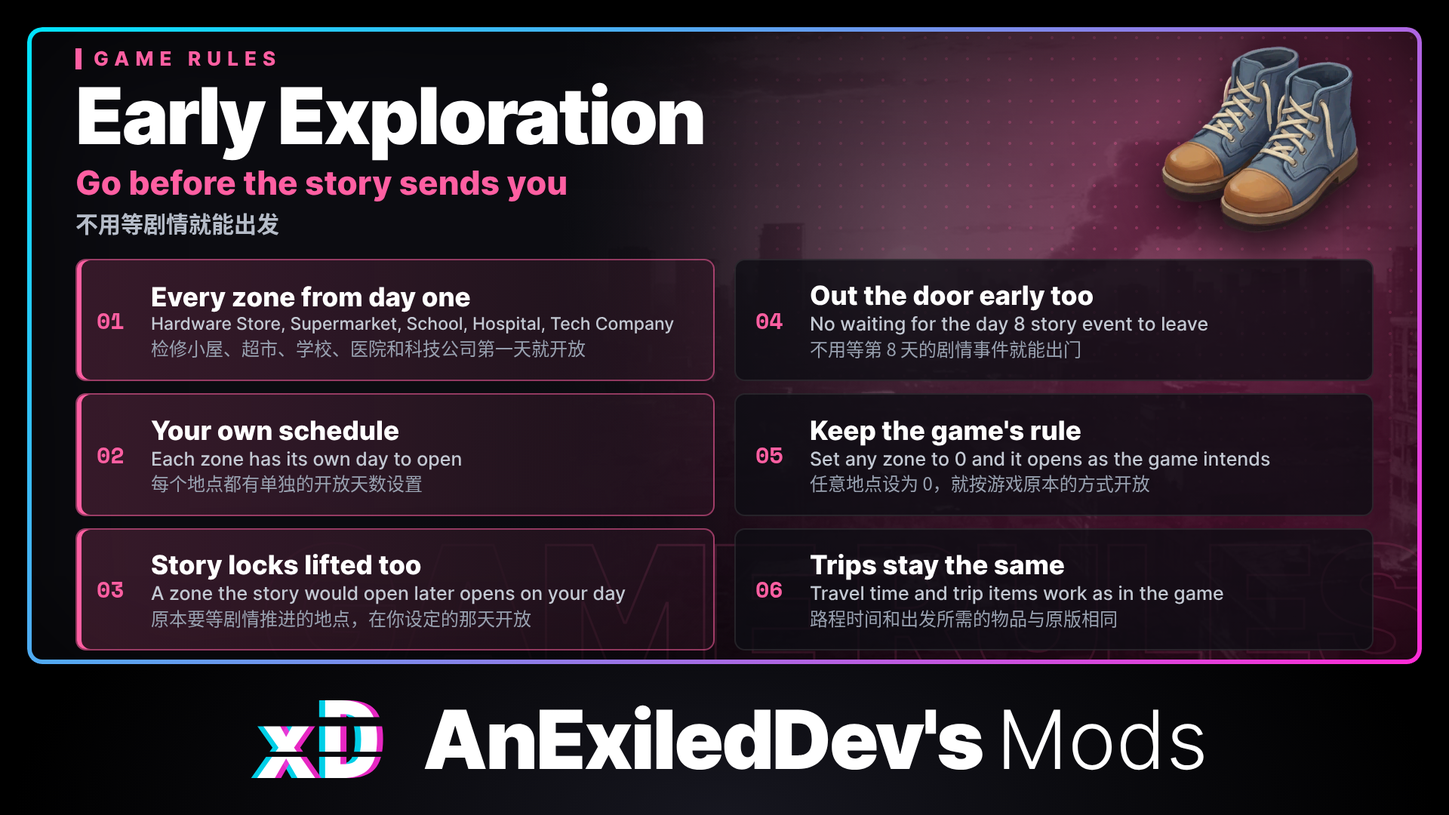
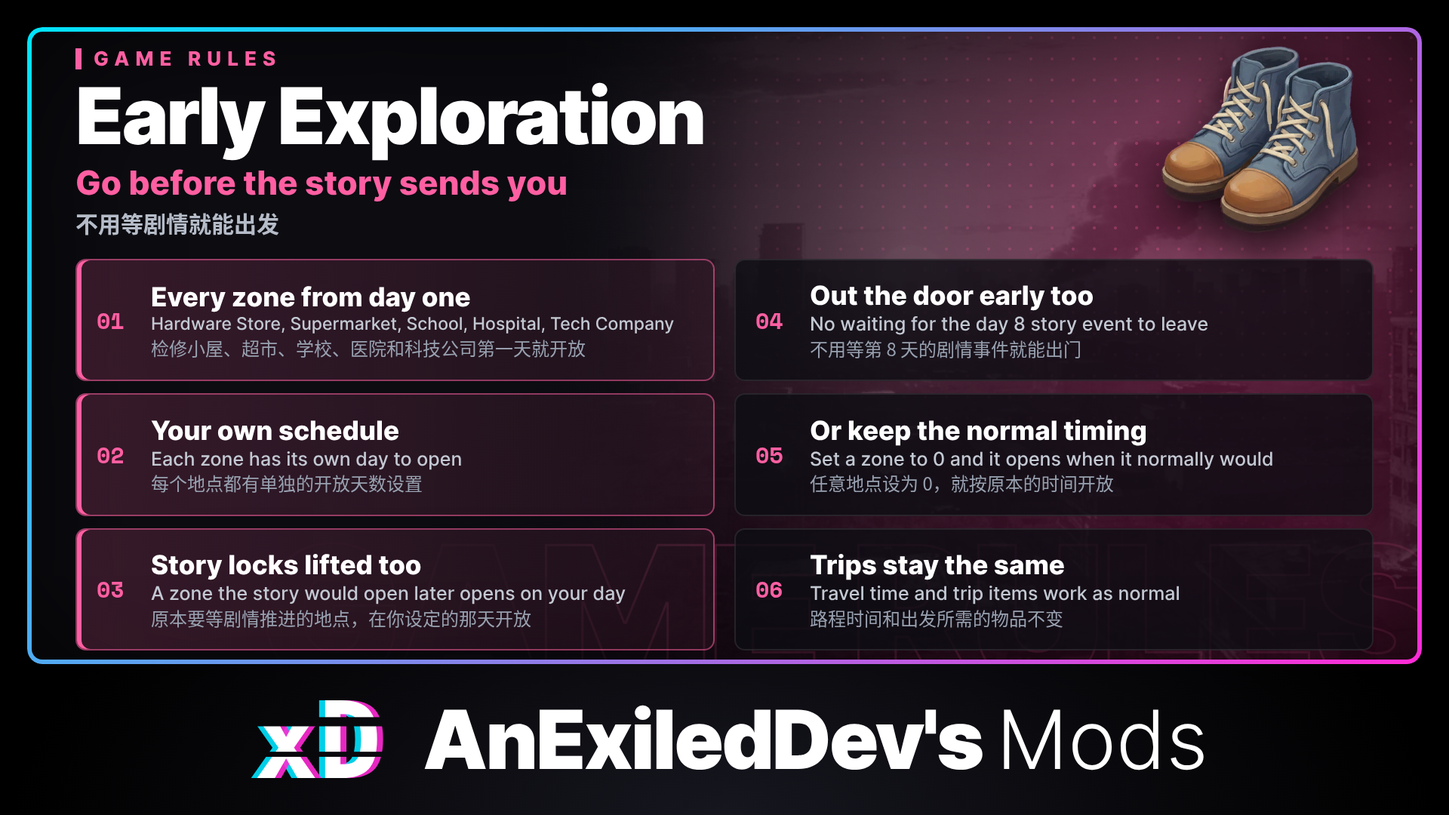
Early Exploration 0.1.7: clearer wording
Rewrote the setting descriptions, the Mods screen description and the log messages in plain words.
Plainer feature headings and sentences in the readme, the Nexus page (English and Chinese), the settings page and the changelog.
Removed a known-issues line about a place the player can't reach.
Updated the thumbnail and features images, and added next release's header, thumbnail and features images.

Changed region(s): [[0.5625, 0.5194, 0.875, 0.6111], [0.7188, 0.7333, 0.7812, 0.7944], [0.7812, 0.7028, 0.8438, 0.7333]]

diff --git a/src/EarlyExploration/Adapters/ZoneOpener.cs b/src/EarlyExploration/Adapters/ZoneOpener.cs
@@ -53,7 +53,7 @@ public sealed class ZoneOpener : MonoBehaviour
         }
         catch (Exception ex)
         {
-            ReportOnce("failure " + ex.GetType().FullName + ex.Message, "the zone check failed, zones keep the game's rules for now (each distinct failure logged once): " + ex, isError: true);
+            ReportOnce("failure " + ex.GetType().FullName + ex.Message, "the zone check failed, so zones may not open on your days for now (each different failure is logged once): " + ex, isError: true);
         }
     }
 
@@ -80,7 +80,7 @@ public sealed class ZoneOpener : MonoBehaviour
 
             if (!mapPoints.TryGetValue(zone.MapPointId, out var mapPoint) || mapPoint == null)
             {
-                ReportOnce($"missing {zone.Key}", $"{zone.English} (map point {zone.MapPointId}) is not in the game's tables, so it keeps the game's rules", isError: true);
+                ReportOnce($"missing {zone.Key}", $"{zone.English} (map point {zone.MapPointId}) is not in the game's tables, so this mod can't change when it opens", isError: true);
 
                 continue;
             }
@@ -126,7 +126,7 @@ public sealed class ZoneOpener : MonoBehaviour
             return;
         }
 
-        ReportOnce("manual reward refused", $"the workbench manual's reward ({WorkbenchStart.ManualFoundRewardSetId}) did not add {WorkbenchStart.ManualTag}, so the workbench unlocks the game's way", isError: true);
+        ReportOnce("manual reward refused", $"the workbench manual's reward ({WorkbenchStart.ManualFoundRewardSetId}) did not add {WorkbenchStart.ManualTag}, so the workbench can only be repaired the normal way", isError: true);
     }
 
     /// <summary>
@@ -156,7 +156,7 @@ public sealed class ZoneOpener : MonoBehaviour
 
         if (copies.Count == 0)
         {
-            ReportOnce("missing event", $"none of the Noisemaker events ({string.Join(", ", ExploreStart.EventIds)}) is set up in this run, so exploring unlocks the game's way", isError: true);
+            ReportOnce("missing event", $"none of the Noisemaker events ({string.Join(", ", ExploreStart.EventIds)}) is set up in this run, so you can only leave the shelter the normal way", isError: true);
 
             return;
         }
@@ -183,7 +183,7 @@ public sealed class ZoneOpener : MonoBehaviour
         if (!tried) return;
 
         _nextStartAt = now + RetrySeconds;
-        ReportOnce($"event refused {clockDay}", $"day {clockDay + 1}: the game did not start a Noisemaker event yet; trying again every {RetrySeconds:0} seconds", isError: false);
+        ReportOnce($"event refused {clockDay}", $"day {clockDay + 1}: the game has not started a Noisemaker event yet, so it is tried again every {RetrySeconds:0} seconds", isError: false);
     }
 
     private static bool TryStart(DynamicEventManager events, int id, DynamicEventConfig setup, int clockDay)
@@ -219,7 +219,7 @@ public sealed class ZoneOpener : MonoBehaviour
 
         condition._SurvivalToDay_k__BackingField = target;
         Log?.Write(openDay == ZonePlan.GameRule
-            ? $"{zone.English}: back to the game's day lock"
+            ? $"{zone.English}: back to its normal opening day"
             : $"{zone.English}: opens on day {openDay}");
     }
 

diff --git a/src/EarlyExploration/Plugin.cs b/src/EarlyExploration/Plugin.cs
@@ -15,7 +15,7 @@ namespace EarlyExploration;
 public sealed class Plugin : BasePlugin
 {
     private const string Guid = "com.dev.survivallog.earlyexploration";
-    private const string Version = "0.1.6";
+    private const string Version = "0.1.7";
 
     /// <summary>Lines add up over many sessions, so past 1 MB the file is moved aside and started again.</summary>
     private const long MaxLogBytes = 1024 * 1024;
@@ -35,8 +35,8 @@ public sealed class Plugin : BasePlugin
 
     private ConfigEntry<int> BindOpenDay(Zone zone) =>
         Config.Bind("Zones", zone.Key, ZonePlan.GameRule, new ConfigDescription(
-            $"The day after the disaster the {zone.English} opens on the exploration map: 1 is the first day. 0, the default, leaves it to open when it normally does ({zone.GameRule}). Opening it early also lifts the story lock, so you can go before the story sends you. Anything else a trip needs, such as items to bring, still applies.\n" +
-            $"灾难发生后，「{zone.Chinese}」在探索地图上开放的天数：1 表示第一天。设为 0（默认）则保持原样，和平时一样开放（{zone.GameRuleChinese}）。提前开放时也会解除剧情锁定，不必等剧情引导就能前往。出发所需的其他条件（例如需要携带的物品）照常生效。",
+            $"The day the {zone.English} opens on the exploration map: 1 is the first day after the disaster. Leave it at 0, the default, and it opens when it normally does ({zone.GameRule}). Opening it early also lifts any story lock, so you can go before the story sends you there. A trip there still needs everything it normally does, such as items to bring.\n" +
+            $"「{zone.Chinese}」在探索地图上开放的天数：1 表示灾难后的第一天。保持 0（默认）则和平时一样开放（{zone.GameRuleChinese}）。提前开放时也会解除剧情锁定，不必等剧情引导就能前往。出发所需的其他条件（例如需要携带的物品）和平时一样。",
             new AcceptableValueRange<int>(ZonePlan.GameRule, ZonePlan.LatestDay)));
 
     private static void UseOpenDays(IReadOnlyDictionary<int, ConfigEntry<int>> openDays, ModLog log)

diff --git a/NEXUS.md b/NEXUS.md
@@ -1,22 +1,22 @@
 Name: Early Exploration
-Summary: Choose the day each exploration zone opens after the disaster, as early as day one: Hardware Store, Supermarket, School, Hospital and Tech Company. Every zone opens when it normally does until you set its day. Story locks are lifted on your day, so you can go before the story sends you. Travel time and trip items work as in the game. Needs Exiled's Toolkit.
+Summary: Choose the day each exploration zone opens after the disaster, as early as day one: Hardware Store, Supermarket, School, Hospital and Tech Company. Every zone opens when it normally does until you set its day. Story locks are lifted on your day, so you can go before the story sends you. Travel time and trip items don't change. Needs Exiled's Toolkit.
 
 Description (BBCode):
 [center][img]https://sldb.core-directive.com/media/save/2-changes-stay.png[/img]
 [img]https://sldb.core-directive.com/media/notice/off.png[/img][/center]
 
-Tired of waiting for the story to let you out? Early Exploration lets you pick the day each place you can explore after the disaster opens, down to the very first day.
+Waiting for the story to let you out gets old. Early Exploration lets you pick the day each exploration zone opens after the disaster, as early as the first day.
 
-Out of the box it changes nothing: every zone opens when it normally does until you set its day to 1 or later, on the Mod Manager's Mods screen or in the config.
+A fresh install changes nothing. Every zone opens when it normally does until you set its day to 1 or later, on the Mod Manager's Mods screen or in the config file.
 
 [size=5]Main features[/size]
 [list]
-[*][b]Every zone from day one[/b]: set them to 1 and the Hardware Store, Deserted Supermarket, Abandoned School, Abandoned Hospital and Tech Company are open on the exploration map from the first day after the disaster.[/*]
-[*][b]Your own schedule[/b]: each zone has its own setting for the day it opens. Pick a day later than it normally opens and the zone stays shut until then.[/*]
-[*][b]Leave a zone alone[/b]: 0, the default, and it opens when it normally does.[/*]
-[*][b]Story locks lifted too[/b]: a zone the story would open later is opened on your day, and stays open in your save.[/*]
-[*][b]Out the door early too[/b]: the game only lets you leave the shelter after its "Exploration Tool" story event on day 8, where you learn to make a Noisemaker. That event now starts on the first day any zone opens, and so does the "Repair Workbench" event a Noisemaker needs (as if you had found the workbench manual), so you can repair the workbench, make one and head out.[/*]
-[*][b]Trips stay the same[/b]: travel time and the items a trip needs (such as a Noisemaker) work as in the game.[/*]
+[*][b]Every zone from day one[/b]: set them all to 1 and the Hardware Store, Deserted Supermarket, Abandoned School, Abandoned Hospital and Tech Company are open on the exploration map from the first day after the disaster.[/*]
+[*][b]A day for each zone[/b]: each zone has its own setting for the day it opens. Pick a day later than it normally opens and the zone stays closed until then.[/*]
+[*][b]0 changes nothing[/b]: leave a zone at 0, the default, and it opens when it normally does.[/*]
+[*][b]Story locks are lifted[/b]: a zone the story would open later opens on your day instead, and it stays open in your save.[/*]
+[*][b]Leave the shelter early[/b]: normally you can't leave the shelter until the "Exploration Tool" story event on day 8, where you learn to make a Noisemaker. That event now starts on the first day any zone opens. You need the workbench to make a Noisemaker, so the "Repair Workbench" event starts that day too, as if you had found the workbench manual. Repair the workbench, make a Noisemaker and head out.[/*]
+[*][b]Trips don't change[/b]: travel time and the items a trip needs (such as a Noisemaker) are the same as normal.[/*]
 [/list]
 Before the disaster nothing changes. Endless and challenge runs aren't touched.
 
@@ -26,7 +26,6 @@ Every setting is explained in English and Chinese.
 [list]
 [*]Going to a zone before the story sends you there can mean arriving without what the story would have given you first, such as a key or an access card for a locked door inside. Those doors stay locked until you find what opens them.[/*]
 [*]Setting a zone back to 0 brings back its normal opening day, but a story lock the mod already lifted stays lifted in that save.[/*]
-[*]The Gas Station is not included: the game does not show it in story runs.[/*]
 [/list]
 
 [center][img]https://sldb.core-directive.com/img/mods-banner.jpg[/img]
@@ -57,7 +56,7 @@ To change settings, edit [font=Courier New]BepInEx\config\com.dev.survivallog.ea
 
 [size=5]Feedback[/size]
 Found a bug or have an idea? Come say hi on the [url=https://discord.gg/trTsyxUFqg]Core Directive Discord[/url], or post in this page's Posts tab. For bugs, please include [font=Courier New]BepInEx\LogOutput.log[/font] and [font=Courier New]BepInEx\early-exploration.log[/font].
-To reach me directly, message [b]exiled.dev[/b] on Discord; you can find me in the [url=https://discord.gg/MZGg4gQAUe]official Survival Log Discord[/url]. I'm also on X as [url=https://x.com/AnExiledDev]@AnExiledDev[/url].
+To reach me directly, message [b]exiled.dev[/b] on Discord. You can find me in the [url=https://discord.gg/MZGg4gQAUe]official Survival Log Discord[/url]. I'm also on X as [url=https://x.com/AnExiledDev]@AnExiledDev[/url].
 
 [size=5]Source and license[/size]
 Open source under MIT: [url=https://github.com/AnExiledDev/SurvivalLog-EarlyExploration]github.com/AnExiledDev/SurvivalLog-EarlyExploration[/url]
@@ -65,18 +64,18 @@ Open source under MIT: [url=https://github.com/AnExiledDev/SurvivalLog-EarlyExpl
 [line]
 [size=5]简体中文[/size]
 
-不想再等剧情放你出门？Early Exploration 让你自己设定灾难之后各个探索地点开放的天数，最早可以是第一天。
+等剧情放你出门实在太久了。Early Exploration 让你自己设定灾难之后各个探索地点开放的天数，最早可以是第一天。
 
-默认不做任何改动：在 Mod Manager 的「模组」界面或配置里把某个地点设为 1 或更大的天数之前，每个地点都和平时一样开放。
+刚装上时不做任何改动。在 Mod Manager 的「模组」界面或配置文件里把某个地点设为 1 或更大的天数之前，每个地点都和平时一样开放。
 
 [size=5]主要功能[/size]
 [list]
-[*][b]第一天全部开放[/b]：设为 1 后，社区检修小屋、残破超市、废弃学校、废弃医院和科技公司，灾难后第一天就在探索地图上开放。[/*]
-[*][b]自定开放天数[/b]：每个地点都有单独的开放天数设置。设得比平时开放得更晚，该地点会一直关闭到那一天。[/*]
-[*][b]保持原样[/b]：设为 0（默认），就和平时一样开放。[/*]
-[*][b]同时解除剧情锁定[/b]：原本要等剧情推进才开放的地点，会在你设定的那天开放，并保留在存档中。[/*]
-[*][b]提前出门[/b]：原版要到第 8 天的「探索工具」剧情事件学会做叮当罐子后才能出门。现在任一区域开放的第一天就会触发这个事件，同时触发做叮当罐子所需的「修理工作台」事件（如同找到了工作台使用手册），修好工作台、做好叮当罐子就能出门。[/*]
-[*][b]出行条件不变[/b]：路程时间和出发所需的物品（例如叮当罐子）与原版相同。[/*]
+[*][b]第一天全部开放[/b]：全部设为 1 后，社区检修小屋、残破超市、废弃学校、废弃医院和科技公司，灾难后第一天就在探索地图上开放。[/*]
+[*][b]每个地点单独设置[/b]：每个地点都有单独的开放天数设置。如果设定的天数比平时开放得晚，该地点会一直关闭到那一天。[/*]
+[*][b]设为 0 不做改动[/b]：保持 0（默认），该地点就和平时一样开放。[/*]
+[*][b]解除剧情锁定[/b]：原本要等剧情推进才开放的地点，会在你设定的那天开放，并且在存档中保持开放。[/*]
+[*][b]提前出门[/b]：平时要到第 8 天的「探索工具」剧情事件学会做叮当罐子后才能出门。现在任一地点开放的第一天就会触发这个事件。做叮当罐子要用工作台，所以「修理工作台」事件也会同时触发，就像找到了工作台使用手册一样。修好工作台、做好叮当罐子就能出门。[/*]
+[*][b]出行条件不变[/b]：路程时间和出发所需的物品（例如叮当罐子）都和平时一样。[/*]
 [/list]
 灾难发生前一切照旧。无尽模式和挑战模式不受影响。
 
@@ -86,7 +85,6 @@ Open source under MIT: [url=https://github.com/AnExiledDev/SurvivalLog-EarlyExpl
 [list]
 [*]在剧情引导之前前往某个地点，可能还没拿到剧情原本会先给你的东西，例如里面某扇锁着的门的钥匙或门禁卡。找到能打开它的东西之前，这些门会一直锁着。[/*]
 [*]把某个地点改回 0 会恢复它平时的开放天数，但模组已经解除的剧情锁定在该存档中不会恢复。[/*]
-[*]不包括加油站：游戏的剧情模式中不会显示这个地点。[/*]
 [/list]
 
 [url=https://www.nexusmods.com/survivallog/mods/73]获取 Mod Manager[/url]，在游戏里设置所有模组。[url=https://sldb.core-directive.com/zh/]打开 Survival Log 维基[/url]，物品、配方、地图一查就有。

diff --git a/README.md b/README.md
@@ -1,17 +1,17 @@
 # Early Exploration
 
-Opens the exploration zones after the disaster as early as day one. Out of the box it changes nothing: every zone opens when it normally does until you set its day (`1` for the first day after the disaster).
+Lets you pick the day each exploration zone opens after the disaster, as early as day one. A fresh install changes nothing: every zone opens when it normally does until you set its day (`1` is the first day after the disaster).
 
-In Survival Log the places you can explore after the disaster open slowly: the Hardware Store on day 5, the others only once the story gets there. Early Exploration gives each zone its own setting so you can pick the day it opens, down to the first day after the disaster.
+In Survival Log the places you can explore after the disaster open slowly: the Hardware Store on day 5, the others only once the story gets there. Early Exploration gives each zone its own setting for the day it opens.
 
 ## Features
 
-- **Every zone from day one**: set them to 1 and the Hardware Store, Deserted Supermarket, Abandoned School, Abandoned Hospital and Tech Company are open on the exploration map from the first day after the disaster.
-- **Your own schedule**: each zone has its own setting for the day it opens. Pick a day later than it normally opens and the zone stays shut until then.
-- **Leave a zone alone**: 0, the default, and it opens when it normally does.
-- **Story locks lifted too**: a zone the story would open later is opened on your day, the same way the story would open it, so it stays open in your save.
-- **Out the door early too**: the game only lets you leave the shelter after its "Exploration Tool" story event on day 8, where you learn to make a Noisemaker. That event now starts on the first day any zone opens, and so does the "Repair Workbench" event a Noisemaker needs (as if you had found the workbench manual), so you can repair the workbench, make one and head out.
-- **Trips stay the same**: travel time and the items a trip needs (such as a Noisemaker) work as in the game.
+- **Every zone from day one**: set them all to 1 and the Hardware Store, Deserted Supermarket, Abandoned School, Abandoned Hospital and Tech Company are open on the exploration map from the first day after the disaster.
+- **A day for each zone**: each zone has its own setting for the day it opens. Pick a day later than it normally opens and the zone stays closed until then.
+- **0 changes nothing**: leave a zone at 0, the default, and it opens when it normally does.
+- **Story locks are lifted**: a zone the story would open later opens on your day instead. It is opened the same way the story would open it, so it stays open in your save.
+- **Leave the shelter early**: normally you can't leave the shelter until the "Exploration Tool" story event on day 8, where you learn to make a Noisemaker. That event now starts on the first day any zone opens. You need the workbench to make a Noisemaker, so the "Repair Workbench" event starts that day too, as if you had found the workbench manual. Repair the workbench, make a Noisemaker and head out.
+- **Trips don't change**: travel time and the items a trip needs (such as a Noisemaker) are the same as normal.
 
 Before the disaster nothing changes. Endless and challenge runs aren't touched.
 
@@ -22,11 +22,10 @@ Every config setting is explained in English and Simplified Chinese.
 - Going to a zone before the story sends you there can mean arriving without what the story would have given you first, such as a key or an access card for a locked door inside. Those doors stay locked until you find what opens them.
 - Story events that would have opened a zone still play when the story reaches them.
 - Setting a zone back to 0 brings back its normal opening day, but a story lock this mod already lifted stays lifted in that save.
-- The Gas Station is not included: the game does not show it in story runs.
 
 ## Requirements
 
-- Survival Log 1.1.20719. Built for this version; a game update can break it until the mod is updated.
+- Survival Log 1.1.20719. Built for this version. A game update can break it until the mod is updated.
 - The [BepInEx Pack for Survival Log](https://www.nexusmods.com/survivallog/mods/12), the BepInEx 6 (IL2CPP) build for the game.
 - **Exiled's Toolkit** 0.20.0 or newer, which applies settings changed on the Mod Manager's Mods screen without restarting the game. Early Exploration does not load without it.
 - Optional: [Mod Manager](https://www.nexusmods.com/survivallog/mods/73). With it, you can change every setting in game on its Mods screen and see what each one does, without opening the config file.
@@ -41,7 +40,7 @@ Every config setting is explained in English and Simplified Chinese.
 
 ## Uninstall
 
-Delete `EarlyExploration.dll` from the `BepInEx\plugins` folder. Zones already opened in a save stay open in it; the rest open when they normally do. For a clean slate, also delete `BepInEx\config\com.dev.survivallog.earlyexploration.cfg`, `BepInEx\early-exploration.log` and `BepInEx\early-exploration.log.1` if it is there.
+Delete `EarlyExploration.dll` from the `BepInEx\plugins` folder. Zones already opened in a save stay open in it. The rest open when they normally do. For a clean slate, also delete `BepInEx\config\com.dev.survivallog.earlyexploration.cfg`, `BepInEx\early-exploration.log` and `BepInEx\early-exploration.log.1` if it is there.
 
 ## Configuration
 
@@ -51,13 +50,13 @@ Settings live in `BepInEx\config\com.dev.survivallog.earlyexploration.cfg`, crea
 
 Built against BepInEx `6.0.0-be.788`.
 
-Check `BepInEx\LogOutput.log` for `===== Early Exploration 0.1.6 started`, followed by a line listing each zone's open day. Once a run has loaded, each zone logs the day it opens on, `opened, added ...` when its story lock is lifted, `gave the workbench manual's reward` when the workbench repair is started early, and `started the Noisemaker event` when the way out is unlocked early. The same lines are in `BepInEx\early-exploration.log`, which survives restarts. Past 1 MB it is moved to `early-exploration.log.1` and started again.
+Check `BepInEx\LogOutput.log` for `===== Early Exploration 0.1.7 started`, followed by a line listing each zone's open day. Once a run has loaded, each zone logs the day it opens on, `opened, added ...` when its story lock is lifted, `gave the workbench manual's reward` when the workbench repair is started early, and `started the Noisemaker event` when the way out is unlocked early. The same lines are in `BepInEx\early-exploration.log`, which survives restarts. Once it passes 1 MB, it is renamed to `early-exploration.log.1` and a new one is started.
 
 ## Feedback and bug reports
 
 Found a bug, have an idea, or something feels off? Come say so on the Core Directive Discord: https://discord.gg/trTsyxUFqg . You can also post in the Posts tab of the mod's Nexus Mods page. When reporting a bug, attach `BepInEx\LogOutput.log`, `BepInEx\early-exploration.log` and `BepInEx\early-exploration.log.1` if it is there.
 
-To reach me directly, message `exiled.dev` on Discord; you can find me in the [official Survival Log Discord](https://discord.gg/MZGg4gQAUe). I'm also on X as [@AnExiledDev](https://x.com/AnExiledDev).
+To reach me directly, message `exiled.dev` on Discord. You can find me in the [official Survival Log Discord](https://discord.gg/MZGg4gQAUe). I'm also on X as [@AnExiledDev](https://x.com/AnExiledDev).
 
 A Survival Log wiki with detailed documentation for all of my mods is coming soon.
 

diff --git a/CONFIG.md b/CONFIG.md
@@ -4,7 +4,7 @@ Settings live in `BepInEx\config\com.dev.survivallog.earlyexploration.cfg`, crea
 
 ## Zones
 
-Each setting is the day after the disaster that the zone opens on the exploration map. Days count the way the game shows them: 1 is the first day after the disaster. 0, the default, leaves the zone to open when it normally does. The highest value is 100.
+Each setting is the day the zone opens on the exploration map. Days count the way the game shows them: 1 is the first day after the disaster. Leave a setting at 0, the default, and the zone opens when it normally does. The highest value is 100.
 
 | Setting | Default | Zone | Normally opens |
 | --- | --- | --- | --- |
@@ -14,8 +14,8 @@ Each setting is the day after the disaster that the zone opens on the exploratio
 | `AbandonedHospital` | `0` | Abandoned Hospital | Through the story |
 | `TechCompany` | `0` | Tech Company | Through the story |
 
-A zone the story opens is opened on your day even if the story has not reached it yet. A day later than the zone normally opens holds it shut until that day, even once the story has opened it.
+A zone the story opens is opened on your day, even if the story hasn't got there yet. If you pick a day later than the zone normally opens, it stays closed until that day, even after the story has opened it.
 
-Opening a zone does not change what a trip there needs: the travel time and any items you must have with you still apply as in the game.
+Opening a zone early doesn't change what a trip there needs. The travel time and any items you must bring are the same as normal.
 
 Setting a zone back to `0` brings back its normal opening day, but a story lock this mod already lifted in a save stays lifted.

diff --git a/CHANGELOG.md b/CHANGELOG.md
@@ -1,5 +1,10 @@
 # Changelog
 
+## 0.1.7
+
+- Clearer wording in the settings, on the Mods screen and in the log.
+- Made for Survival Log 1.1.20719.
+
 ## 0.1.6
 
 - Now needs Exiled's Toolkit 0.20.0 or newer.
@@ -7,7 +12,7 @@
 
 ## 0.1.5
 
-- Now uses Exiled's Toolkit for its shared parts, so it needs Exiled's Toolkit 0.19.0 or newer.
+- Some shared code now comes from Exiled's Toolkit, so this mod needs Exiled's Toolkit 0.19.0 or newer.
 - Made for Survival Log 1.1.20719.
 
 ## 0.1.4
@@ -27,8 +32,8 @@
 
 ## 0.1.1
 
-- Fixed: with zones open early you still could not leave the shelter until day 8, because the front door only offers a trip after the "Exploration Tool" story event. That event (make a Noisemaker) now starts on the first day any zone opens.
-- Fixed: a Noisemaker is made at the workbench, which could not be repaired until the workbench manual turned up on day 4 or later. The "Repair Workbench" event now starts on the first day any zone opens too, as if you had found the manual. The repair still takes 2 Scrap Metal, as in the game.
+- Fixed: with zones open early, you still couldn't leave the shelter until day 8. The front door only offers a trip after the "Exploration Tool" story event, where you learn to make a Noisemaker, and that event now starts on the first day any zone opens.
+- Fixed: you couldn't make a Noisemaker early, because it's made at the workbench and the workbench couldn't be repaired until you found its manual on day 4 or later. The "Repair Workbench" event now also starts on the first day any zone opens, as if you had found the manual. The repair still takes 2 Scrap Metal like it normally does.
 - Made for Survival Log 1.1.20151.
 
 ## 0.1.0
